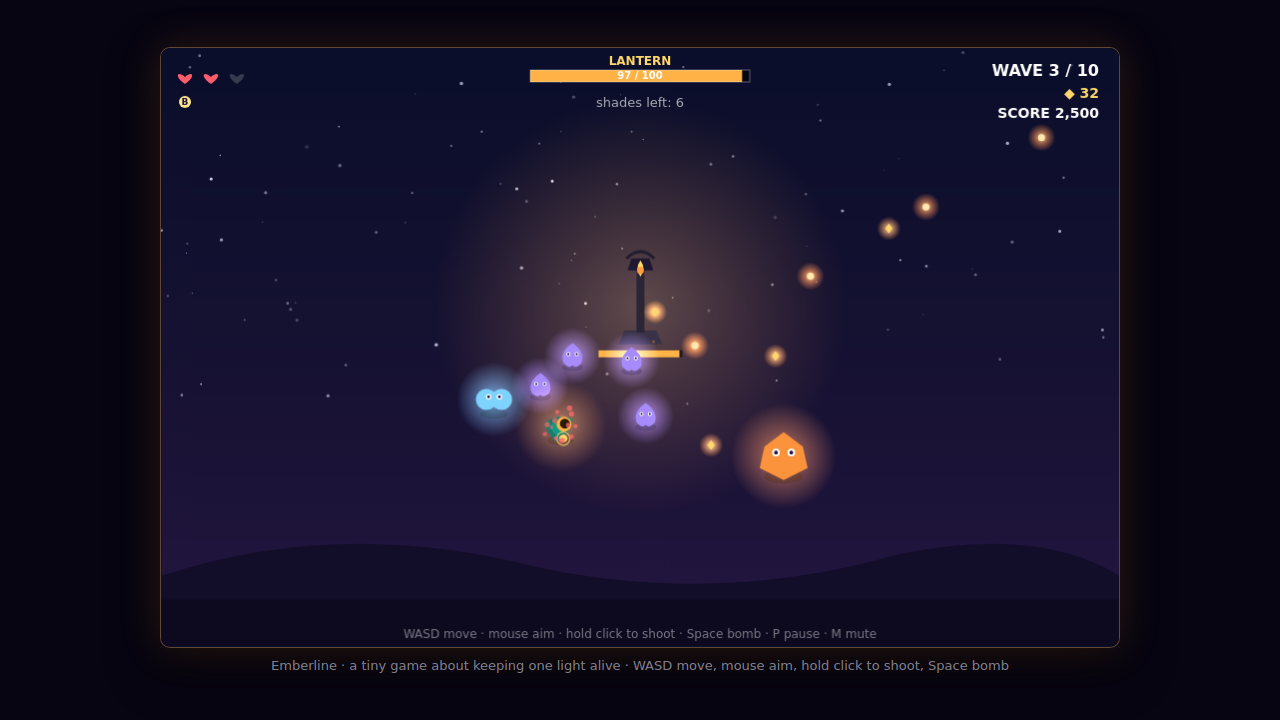
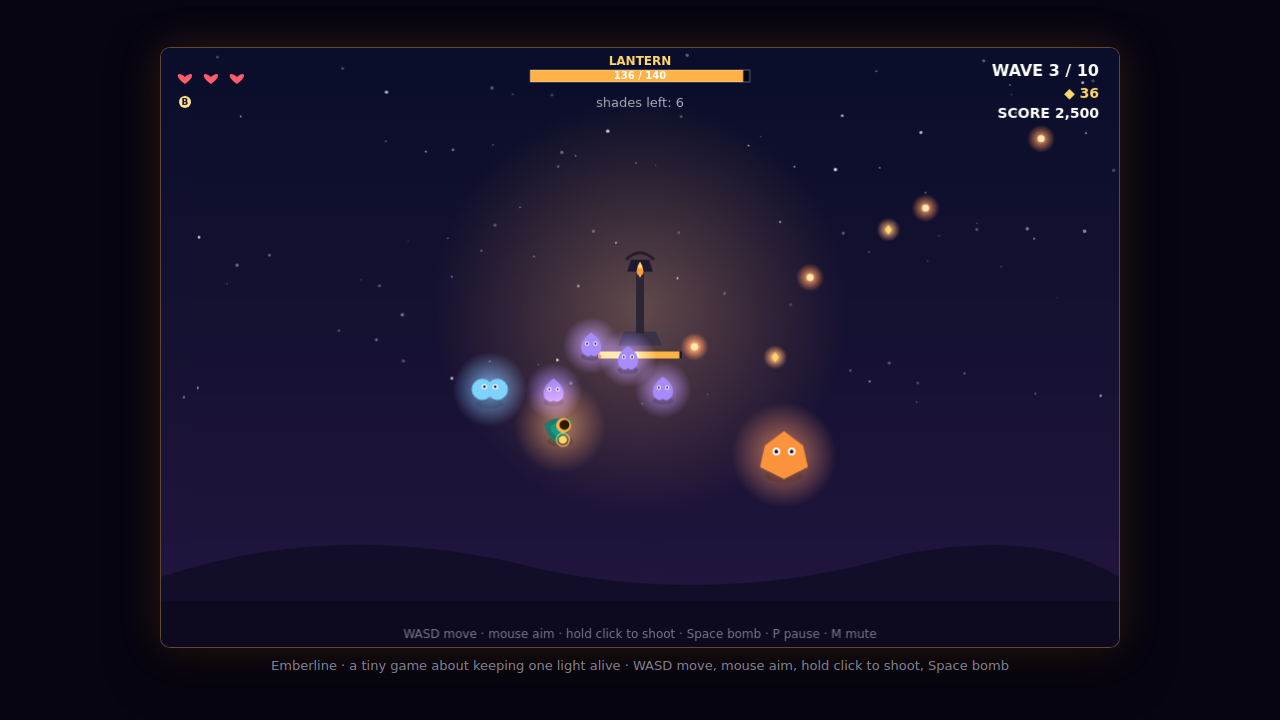
best-game-01: balance — kamikaze wisps, wider ember magnet, tougher lantern, slower orbs

diff --git a/game/js/enemies.js b/game/js/enemies.js
@@ -7,11 +7,11 @@ import { TAU, clamp, rand, pick } from './utils.js';
 
 /** Per-kind tuning. hp scales a little with the wave (see spawnEnemy). */
 export const KINDS = {
-  wisp: { hp: 2, speed: 96, radius: 13, lanternDps: 5, ember: 3, score: 10, color: '#a78bfa' },
+  wisp: { hp: 2, speed: 96, radius: 13, lanternDps: 4, ember: 3, score: 10, color: '#a78bfa' },
   mote: { hp: 1, speed: 155, radius: 8, lanternDps: 3, ember: 1, score: 5, color: '#c4b5fd' },
   spitter: { hp: 3, speed: 62, radius: 14, lanternDps: 0, ember: 5, score: 15, color: '#f472b6' },
   splitter: { hp: 4, speed: 56, radius: 17, lanternDps: 7, ember: 6, score: 20, color: '#7dd3fc' },
-  brute: { hp: 16, speed: 44, radius: 24, lanternDps: 14, ember: 12, score: 40, color: '#fb923c' },
+  brute: { hp: 16, speed: 44, radius: 24, lanternDps: 12, ember: 12, score: 40, color: '#fb923c' },
 };
 
 export class Enemy {
@@ -63,7 +63,7 @@ export class Enemy {
     let ty = lantern.y;
     if (this.kind !== 'spitter') {
       const dPlayer = Math.hypot(player.x - this.x, player.y - this.y);
-      if (dPlayer < 230) {
+      if (dPlayer < 170) {
         tx = player.x;
         ty = player.y;
       }
@@ -85,10 +85,10 @@ export class Enemy {
       vx = (dx / d) * this.speed * radial + px * 30;
       vy = (dy / d) * this.speed * radial + py * 30;
       if (this.shootCd <= 0) {
-        this.shootCd = 2.4;
+        this.shootCd = 2.8;
         const target = Math.hypot(player.x - this.x, player.y - this.y) < 420 ? player : lantern;
         const a = Math.atan2(target.y - this.y, target.x - this.x);
-        game.fireOrb(this.x, this.y, Math.cos(a) * 150, Math.sin(a) * 150, 1);
+        game.fireOrb(this.x, this.y, Math.cos(a) * 125, Math.sin(a) * 125, 1);
         game.sfx.tone(300, 0.12, 'sine', 0.1, 160);
       }
     }
@@ -107,13 +107,17 @@ export class Enemy {
       game.damageLantern(this.lanternDps * dt, this.x, this.y);
     }
 
-    // Touching the keeper hurts them and shoves the shade away.
+    // Touching the keeper hurts them and shoves the shade away. Small
+    // shades burn out on the keeper's light when they touch it.
     const dP = Math.hypot(player.x - this.x, player.y - this.y);
     if (dP < player.radius + this.radius - 2) {
       if (player.hurt(game)) {
         const a = Math.atan2(this.y - player.y, this.x - player.x);
         this.kx += Math.cos(a) * 320;
         this.ky += Math.sin(a) * 320;
+        if ((this.kind === 'wisp' || this.kind === 'mote') && this.damage(999, game)) {
+          game.onEnemyKilled(this);
+        }
       }
     }
   }

diff --git a/game/js/projectiles.js b/game/js/projectiles.js
@@ -96,7 +96,7 @@ export class Ember {
     this.vx = Math.cos(a) * s;
     this.vy = Math.sin(a) * s;
     this.value = value;
-    this.life = 14;
+    this.life = 18;
     this.radius = 7;
     this.dead = false;
     this.phase = rng() * TAU;
@@ -116,8 +116,8 @@ export class Ember {
       const dx = player.x - this.x;
       const dy = player.y - this.y;
       const d = Math.hypot(dx, dy);
-      if (d < 130 && d > 1) {
-        const pull = 900 * (1 - d / 140);
+      if (d < 180 && d > 1) {
+        const pull = 900 * (1 - d / 200);
         this.vx += (dx / d) * pull * dt;
         this.vy += (dy / d) * pull * dt;
       }

diff --git a/game/js/main.js b/game/js/main.js
@@ -30,7 +30,7 @@ export class Game {
     this.input = new Input(canvas);
     this.sfx = new Sfx();
     this.player = new Player(W / 2, H - 120);
-    this.lantern = { x: W / 2, y: H / 2 - 10, hp: 100, maxHp: 100, radius: 26 };
+    this.lantern = { x: W / 2, y: H / 2 - 10, hp: 140, maxHp: 140, radius: 26 };
     this.waves = new WaveManager(this);
     this.enemies = [];
     this.bolts = [];

diff --git a/game/js/player.js b/game/js/player.js
@@ -90,7 +90,7 @@ export class Player {
   hurt(game) {
     if (this.invuln > 0) return false;
     this.hearts -= 1;
-    this.invuln = 1.1;
+    this.invuln = 1.4;
     game.sfx.hurt();
     game.addShake(7);
     game.spawnBurst(this.x, this.y, '#ff6b6b', 14, 160);
